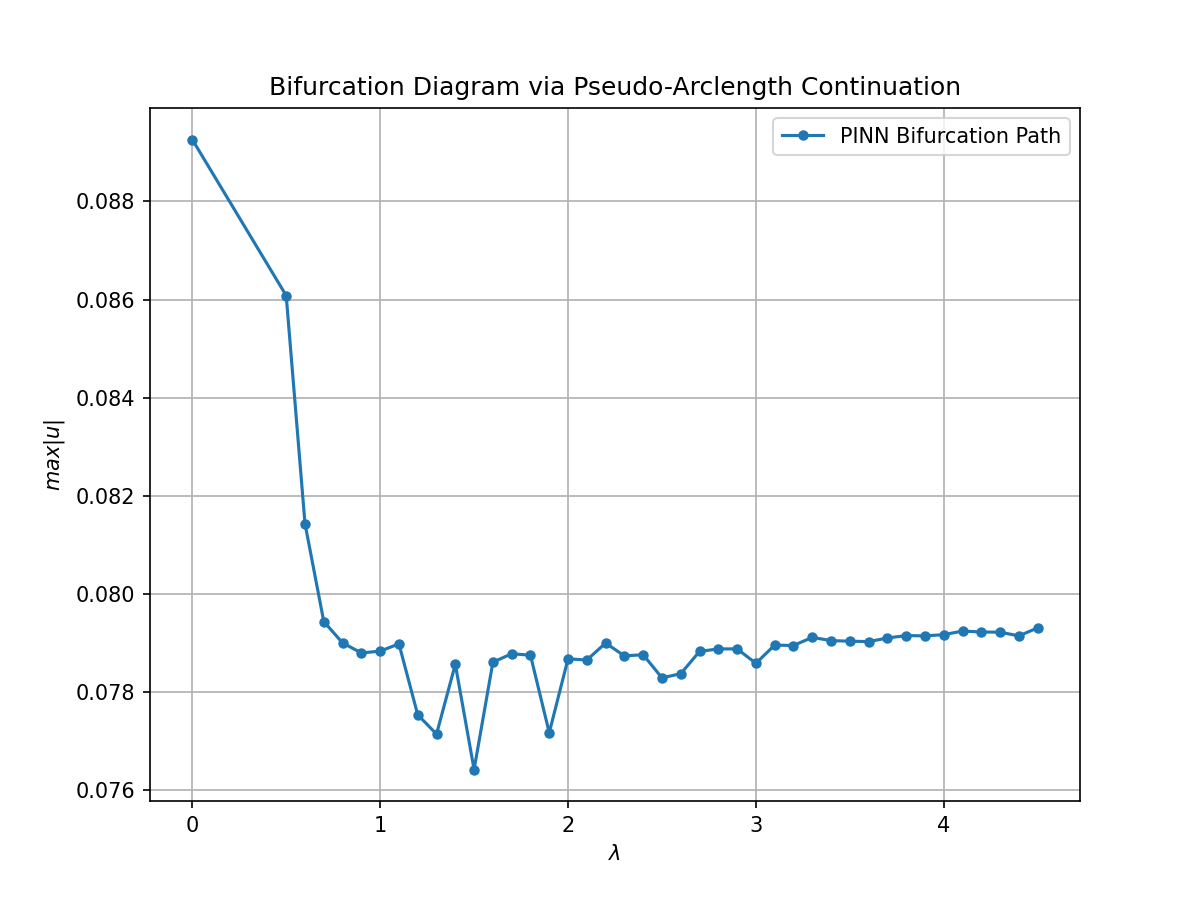
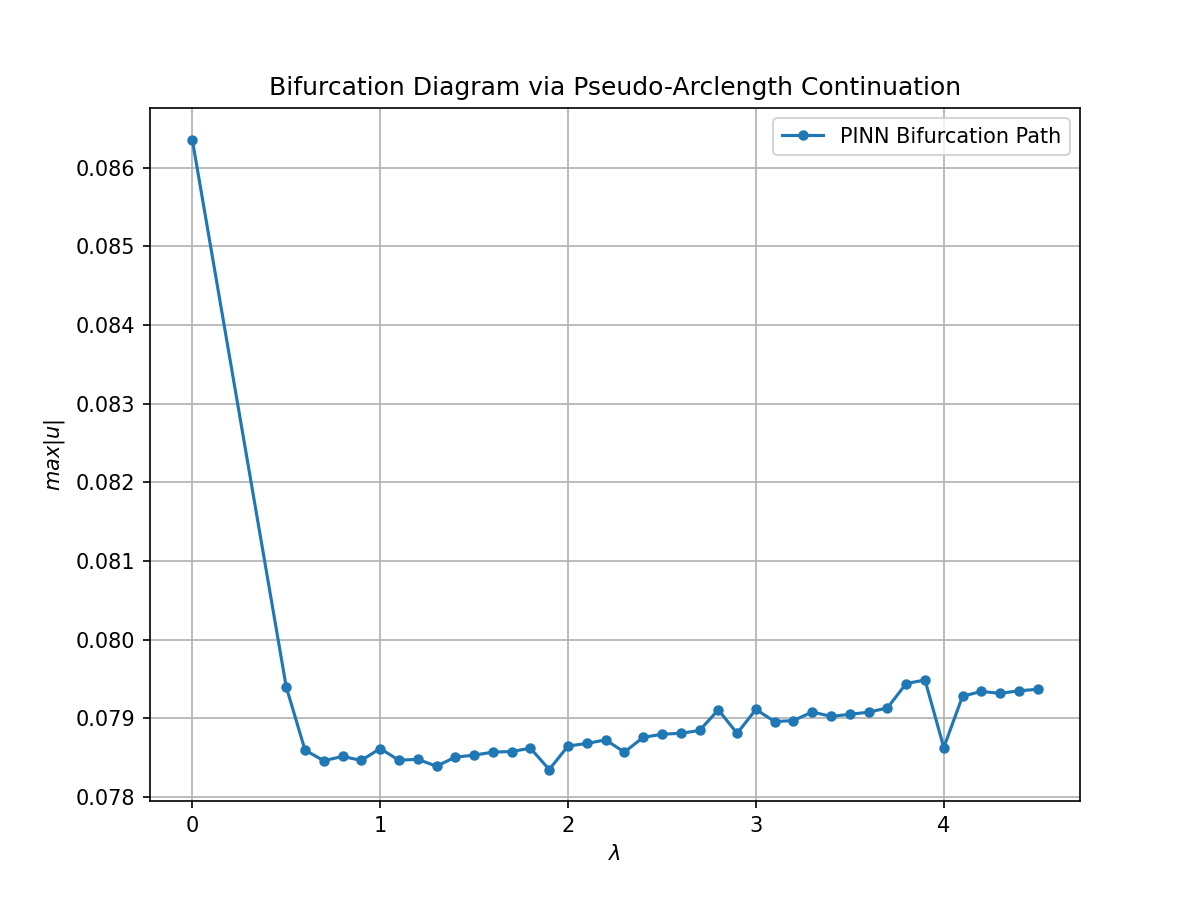
Change of activating function

diff --git a/PINN/main_bif.py b/PINN/main_bif.py
@@ -20,14 +20,19 @@ print(f"Используем устройство: {device}")
 torch.backends.cudnn.benchmark = True
 torch.backends.cudnn.deterministic = False
 
+class GaussianActivation(nn.Module):
+    """Гауссова активация как в статье: σ(x) = exp(-x²/2)"""
+    def forward(self, x):
+        return torch.exp(-x**2 / 2)
+
 class PINN(nn.Module):
     def __init__(self, init_lambda=0.0):
         super(PINN, self).__init__()
         self.net = nn.Sequential(
             nn.Linear(2, 7),
-            nn.Tanh(),
+            GaussianActivation(),
             nn.Linear(7, 7),
-            nn.Tanh(),
+            GaussianActivation(),
             nn.Linear(7, 1)
         )
         self.lam = nn.Parameter(torch.tensor([init_lambda], dtype=torch.float32))
@@ -39,44 +44,44 @@ class PINN(nn.Module):
 def generate_data(n_physics, n_boundary):
     x_phys = torch.rand((n_physics, 1), device=device, requires_grad=True)
     y_phys = torch.rand((n_physics, 1), device=device, requires_grad=True)
-    
+
     rand_vals = torch.rand((n_boundary, 1), device=device)
     zeros = torch.zeros((n_boundary, 1), device=device)
     ones = torch.ones((n_boundary, 1), device=device)
-    
+
     left   = torch.cat([zeros, rand_vals], dim=1)
     right  = torch.cat([ones, rand_vals], dim=1)
     bottom = torch.cat([rand_vals, zeros], dim=1)
     top    = torch.cat([rand_vals, ones], dim=1)
-    
+
     boundary_points = torch.cat([left, right, bottom, top], dim=0)
-    
+
     return x_phys, y_phys, boundary_points
 
 def compute_pde_residual(model, x, y):
     u = model(x, y)
     lambda_param = model.lam
-    
-    u_x = torch.autograd.grad(u, x, 
-                              grad_outputs=torch.ones_like(u), 
-                              create_graph=True, 
-                              retain_graph=True)[0]
-    
-    u_y = torch.autograd.grad(u, y, 
-                              grad_outputs=torch.ones_like(u), 
+
+    u_x = torch.autograd.grad(u, x,
+                              grad_outputs=torch.ones_like(u),
                               create_graph=True,
                               retain_graph=True)[0]
-    
-    u_xx = torch.autograd.grad(u_x, x, 
-                               grad_outputs=torch.ones_like(u_x), 
+
+    u_y = torch.autograd.grad(u, y,
+                              grad_outputs=torch.ones_like(u),
+                              create_graph=True,
+                              retain_graph=True)[0]
+
+    u_xx = torch.autograd.grad(u_x, x,
+                               grad_outputs=torch.ones_like(u_x),
                                create_graph=True)[0]
-                               
-    u_yy = torch.autograd.grad(u_y, y, 
-                               grad_outputs=torch.ones_like(u_y), 
+
+    u_yy = torch.autograd.grad(u_y, y,
+                               grad_outputs=torch.ones_like(u_y),
                                create_graph=True)[0]
-    
+
     residual = u_xx + u_yy + 1 + u + lambda_param * (u ** 2)
-    
+
     return residual
 
 def get_anchor_points(n=1000):
@@ -98,13 +103,13 @@ model.lam.requires_grad = False
 
 for i in tqdm(range(ITERATIONS)):
     optimizer.zero_grad()
-    
+
     res = compute_pde_residual(model, x_p, y_p)
     loss_phys = torch.mean(res**2)
-    
+
     u_b = model(xy_b[:,0:1], xy_b[:,1:2])
     loss_b = torch.mean(u_b**2)
-    
+
     loss = loss_phys + 10 * loss_b
     loss.backward()
     optimizer.step()
@@ -158,10 +163,10 @@ for step in range(N_STEPS):
     # 1. Вычисляем касательную (ИСПРАВЛЕНО!)
     diff_u = u_curr_vec - u_prev_vec  # Было u_prev_vec - u_prev_vec (BUG!)
     diff_lam = lam_curr_val - lam_prev_val
-    
+
     # Нормализация
     norm = torch.sqrt(torch.mean(diff_u**2) + diff_lam**2) + 1e-10
-    
+
     tau_u = diff_u / norm
     tau_lam = diff_lam / norm
 
@@ -174,26 +179,26 @@ for step in range(N_STEPS):
 
     for i in pbar:
         optimizer.zero_grad()
-        
+
         # A. PDE Loss
         res = compute_pde_residual(model, x_p, y_p)
         loss_pde = torch.mean(res**2)
-        
+
         # B. Boundary Loss
         u_b = model(xy_b[:,0:1], xy_b[:,1:2])
         loss_b = torch.mean(u_b**2)
-        
+
         # C. Arclength Loss
         u_anchor_pred = model(x_anchor, y_anchor)
-        
+
         # ИСПРАВЛЕНО: используем u_curr_vec как базовую точку
         dot_u = torch.mean((u_anchor_pred - u_curr_vec) * tau_u)
         dot_lam = (model.lam - lam_curr_val) * tau_lam
-        
+
         loss_arc = ((dot_u + dot_lam) - DS) ** 2
-        
+
         loss = loss_pde + 10 * loss_b + 100 * loss_arc  # Увеличен вес arclength
-        
+
         loss.backward()
         optimizer.step()
 
@@ -207,17 +212,17 @@ for step in range(N_STEPS):
     with torch.no_grad():
         u_new_vec = model(x_anchor, y_anchor).clone()
         lam_new_val = model.lam.item()
-        
+
         history_lambda.append(lam_new_val)
         history_u_max.append(u_new_vec.max().item())
-        
+
         # Обновляем для следующего шага
         u_prev_vec = u_curr_vec.clone()
         lam_prev_val = lam_curr_val
-        
+
         u_curr_vec = u_new_vec
         lam_curr_val = lam_new_val
-        
+
     print(f"Step {step+1}: Lambda={lam_new_val:.4f}, Max|u|={u_new_vec.max().item():.4f}")
 
 plt.figure(figsize=(8, 6))
